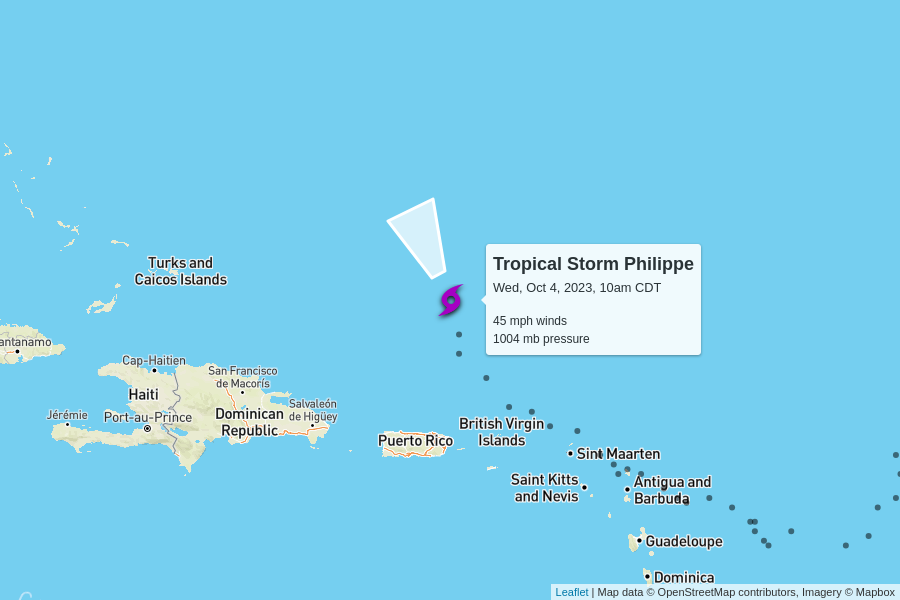
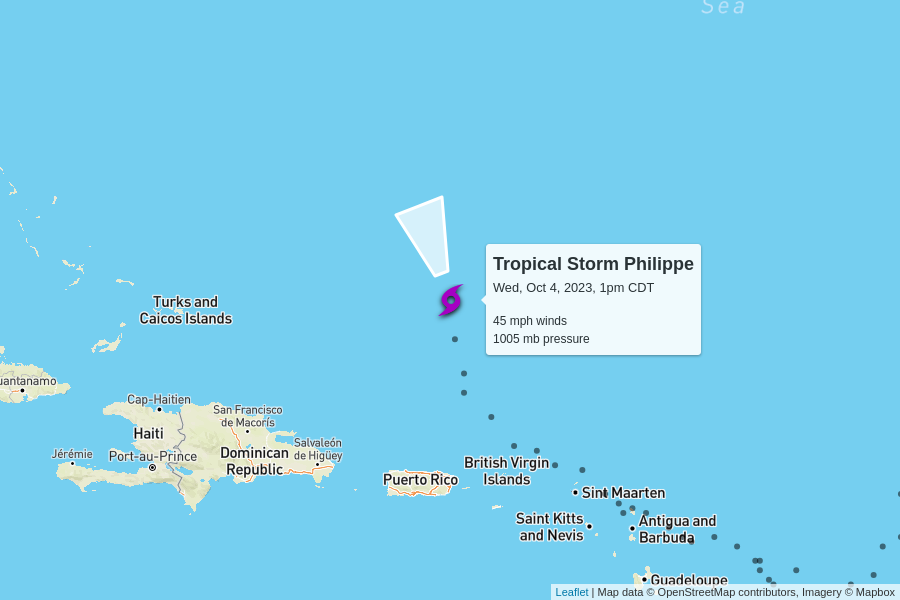
automatic update

diff --git a/docs/index.html b/docs/index.html
@@ -102,7 +102,7 @@
         <td colspan="6" class="storm category-0" >
           <h2>
             Tropical Storm Philippe
-            <p class="updated">last updated <span data-time>2023-10-04T15:00:00.000Z</span></p>
+            <p class="updated">last updated <span data-time>2023-10-04T18:00:00.000Z</span></p>
           </h2>
         </td>
       </tr>
@@ -118,11 +118,11 @@
       <tr>
         <td class="spacer"></td>
         <td>45 mph<br>0 mph since last update</td>
-        <td>1004 mb<br>0 mb since last update</td>
+        <td>1005 mb<br>+1 mb since last update</td>
         <td>
-          7 mph to the north-northwest
+          9 mph to the north-northwest
           <br/>
-          <span style="display: inline-block; font-size: 1.5em; transform: rotate(335deg);">↑</span>
+          <span style="display: inline-block; font-size: 1.5em; transform: rotate(340deg);">↑</span>
         </td>
         <td><a href="https://raw.githubusercontent.com/mgwalker/atlantic-hurricanes/main/data/csv/AL172023.csv">AL172023.csv</a></td>
         <td><a href="https://www.nhc.noaa.gov/archive/2023/PHILIPPE.shtml?">NHC advisories</a></td>
